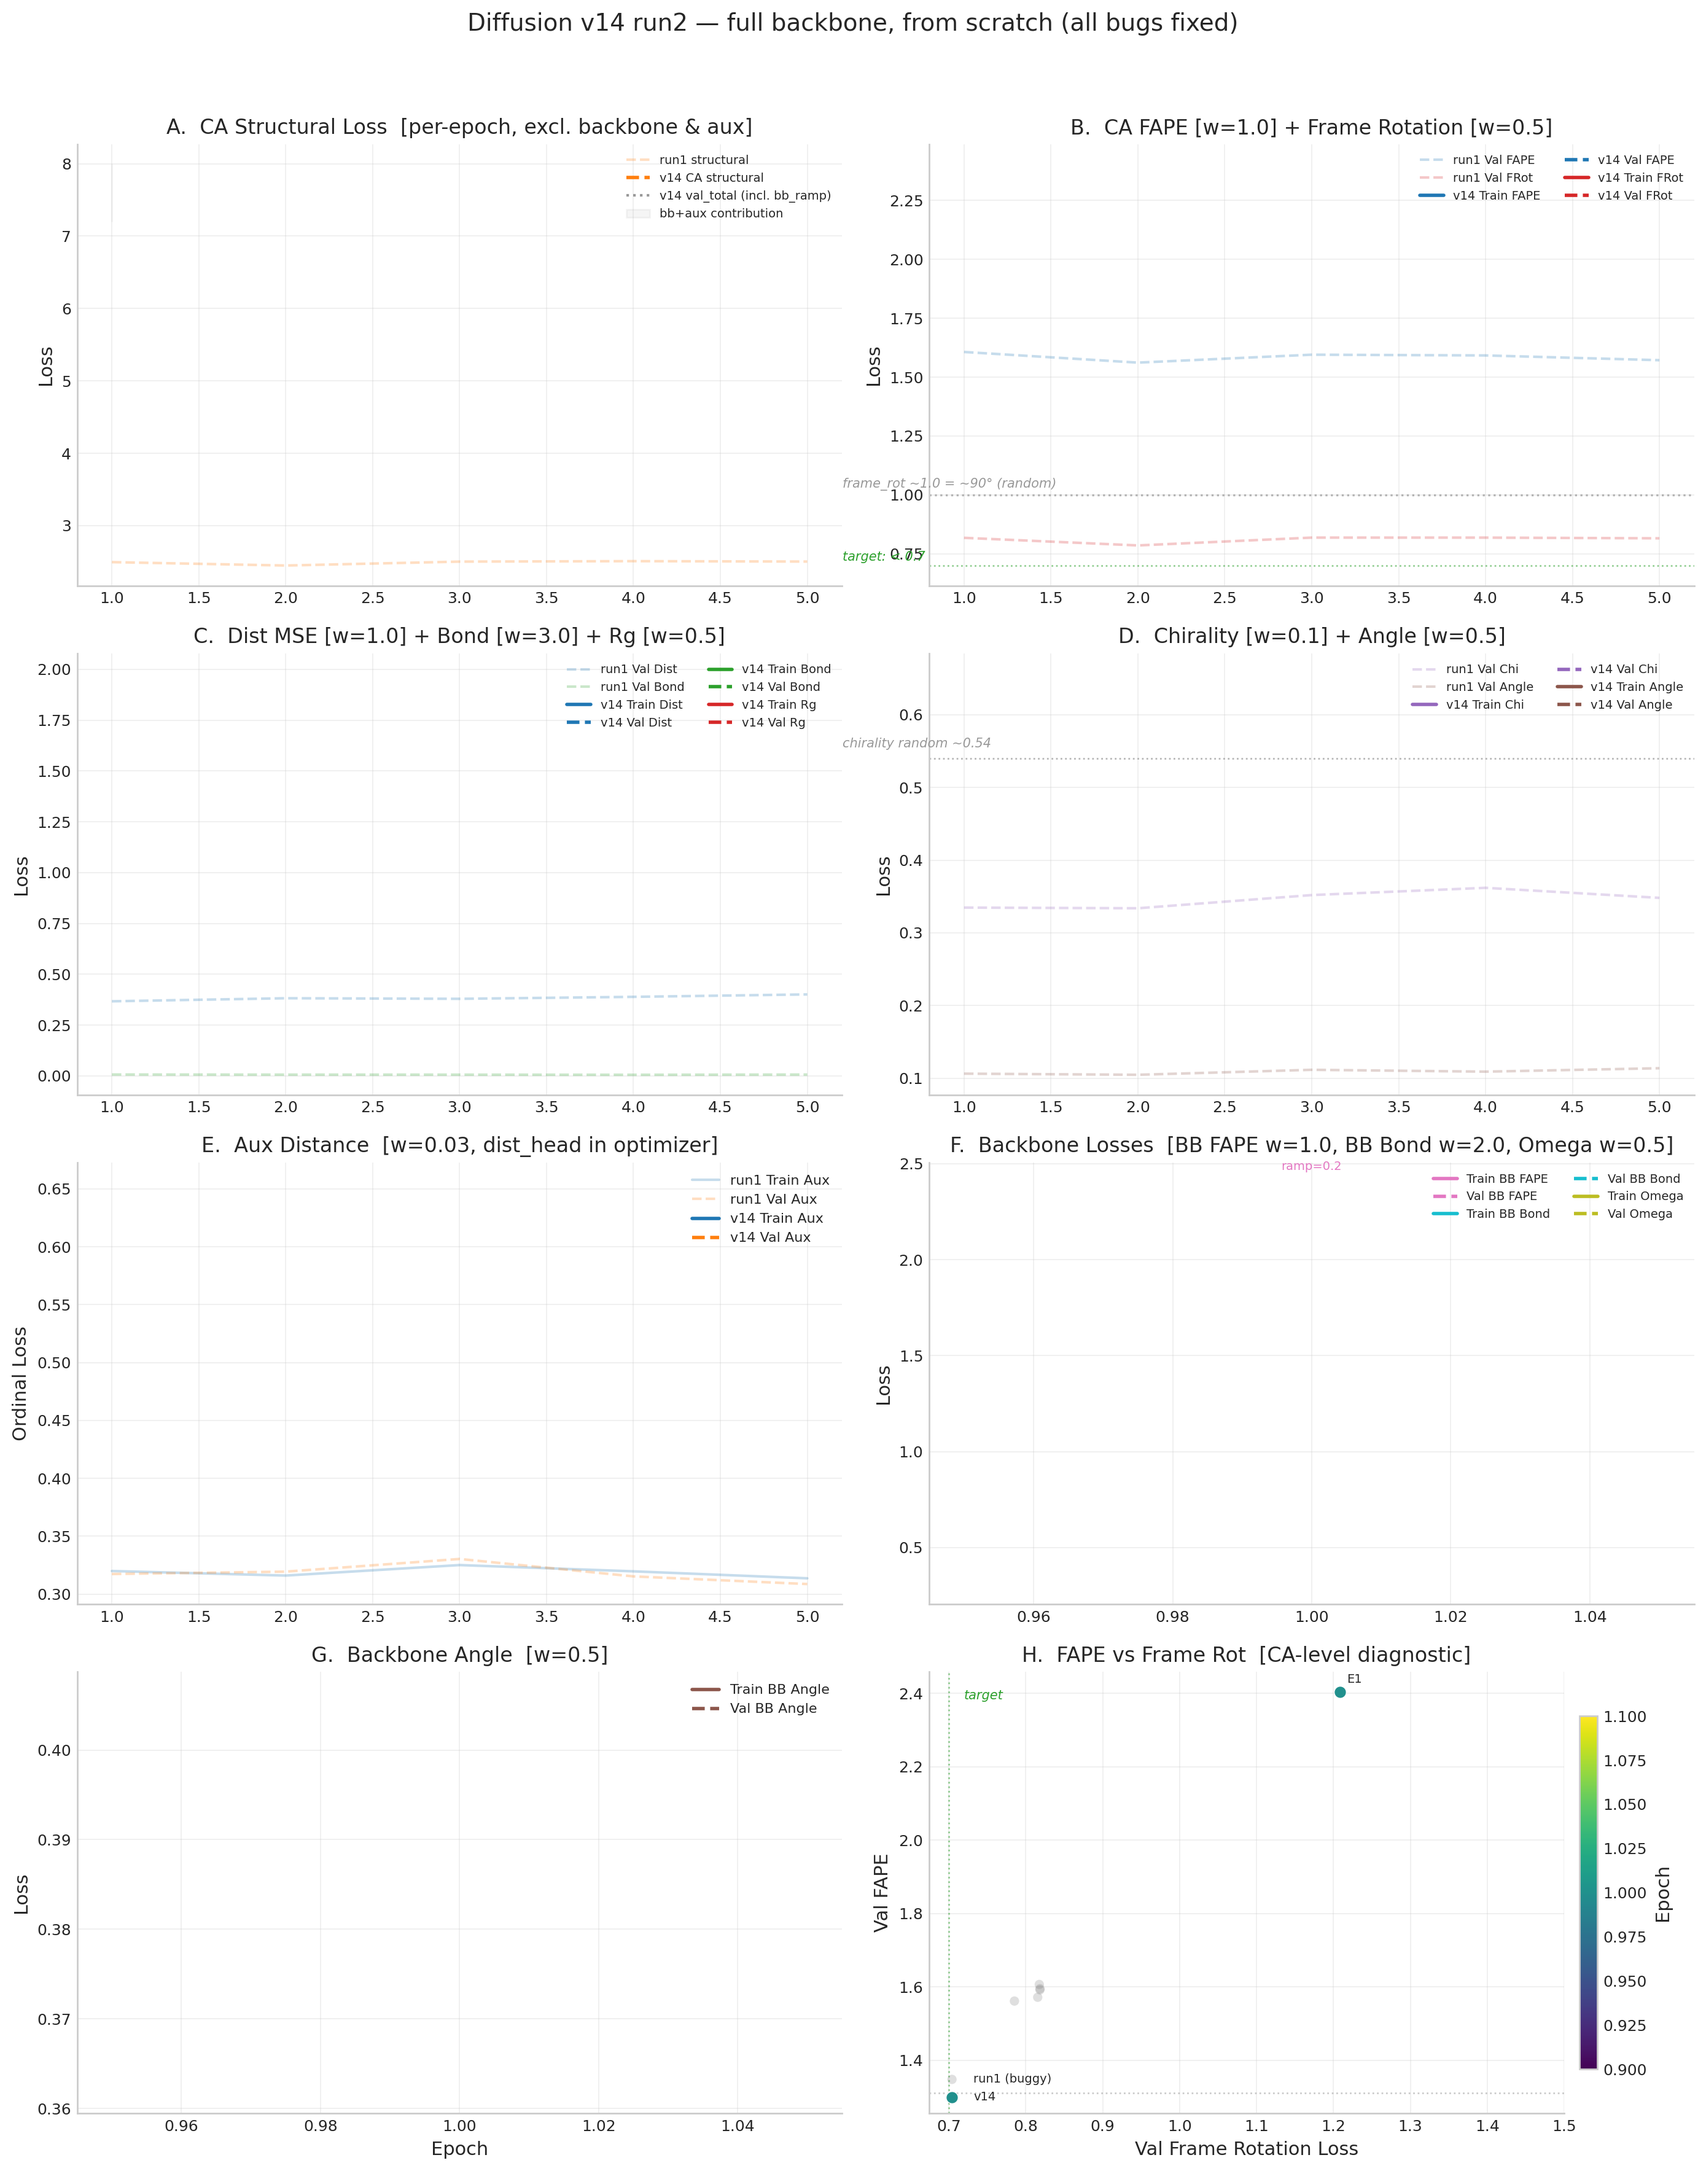
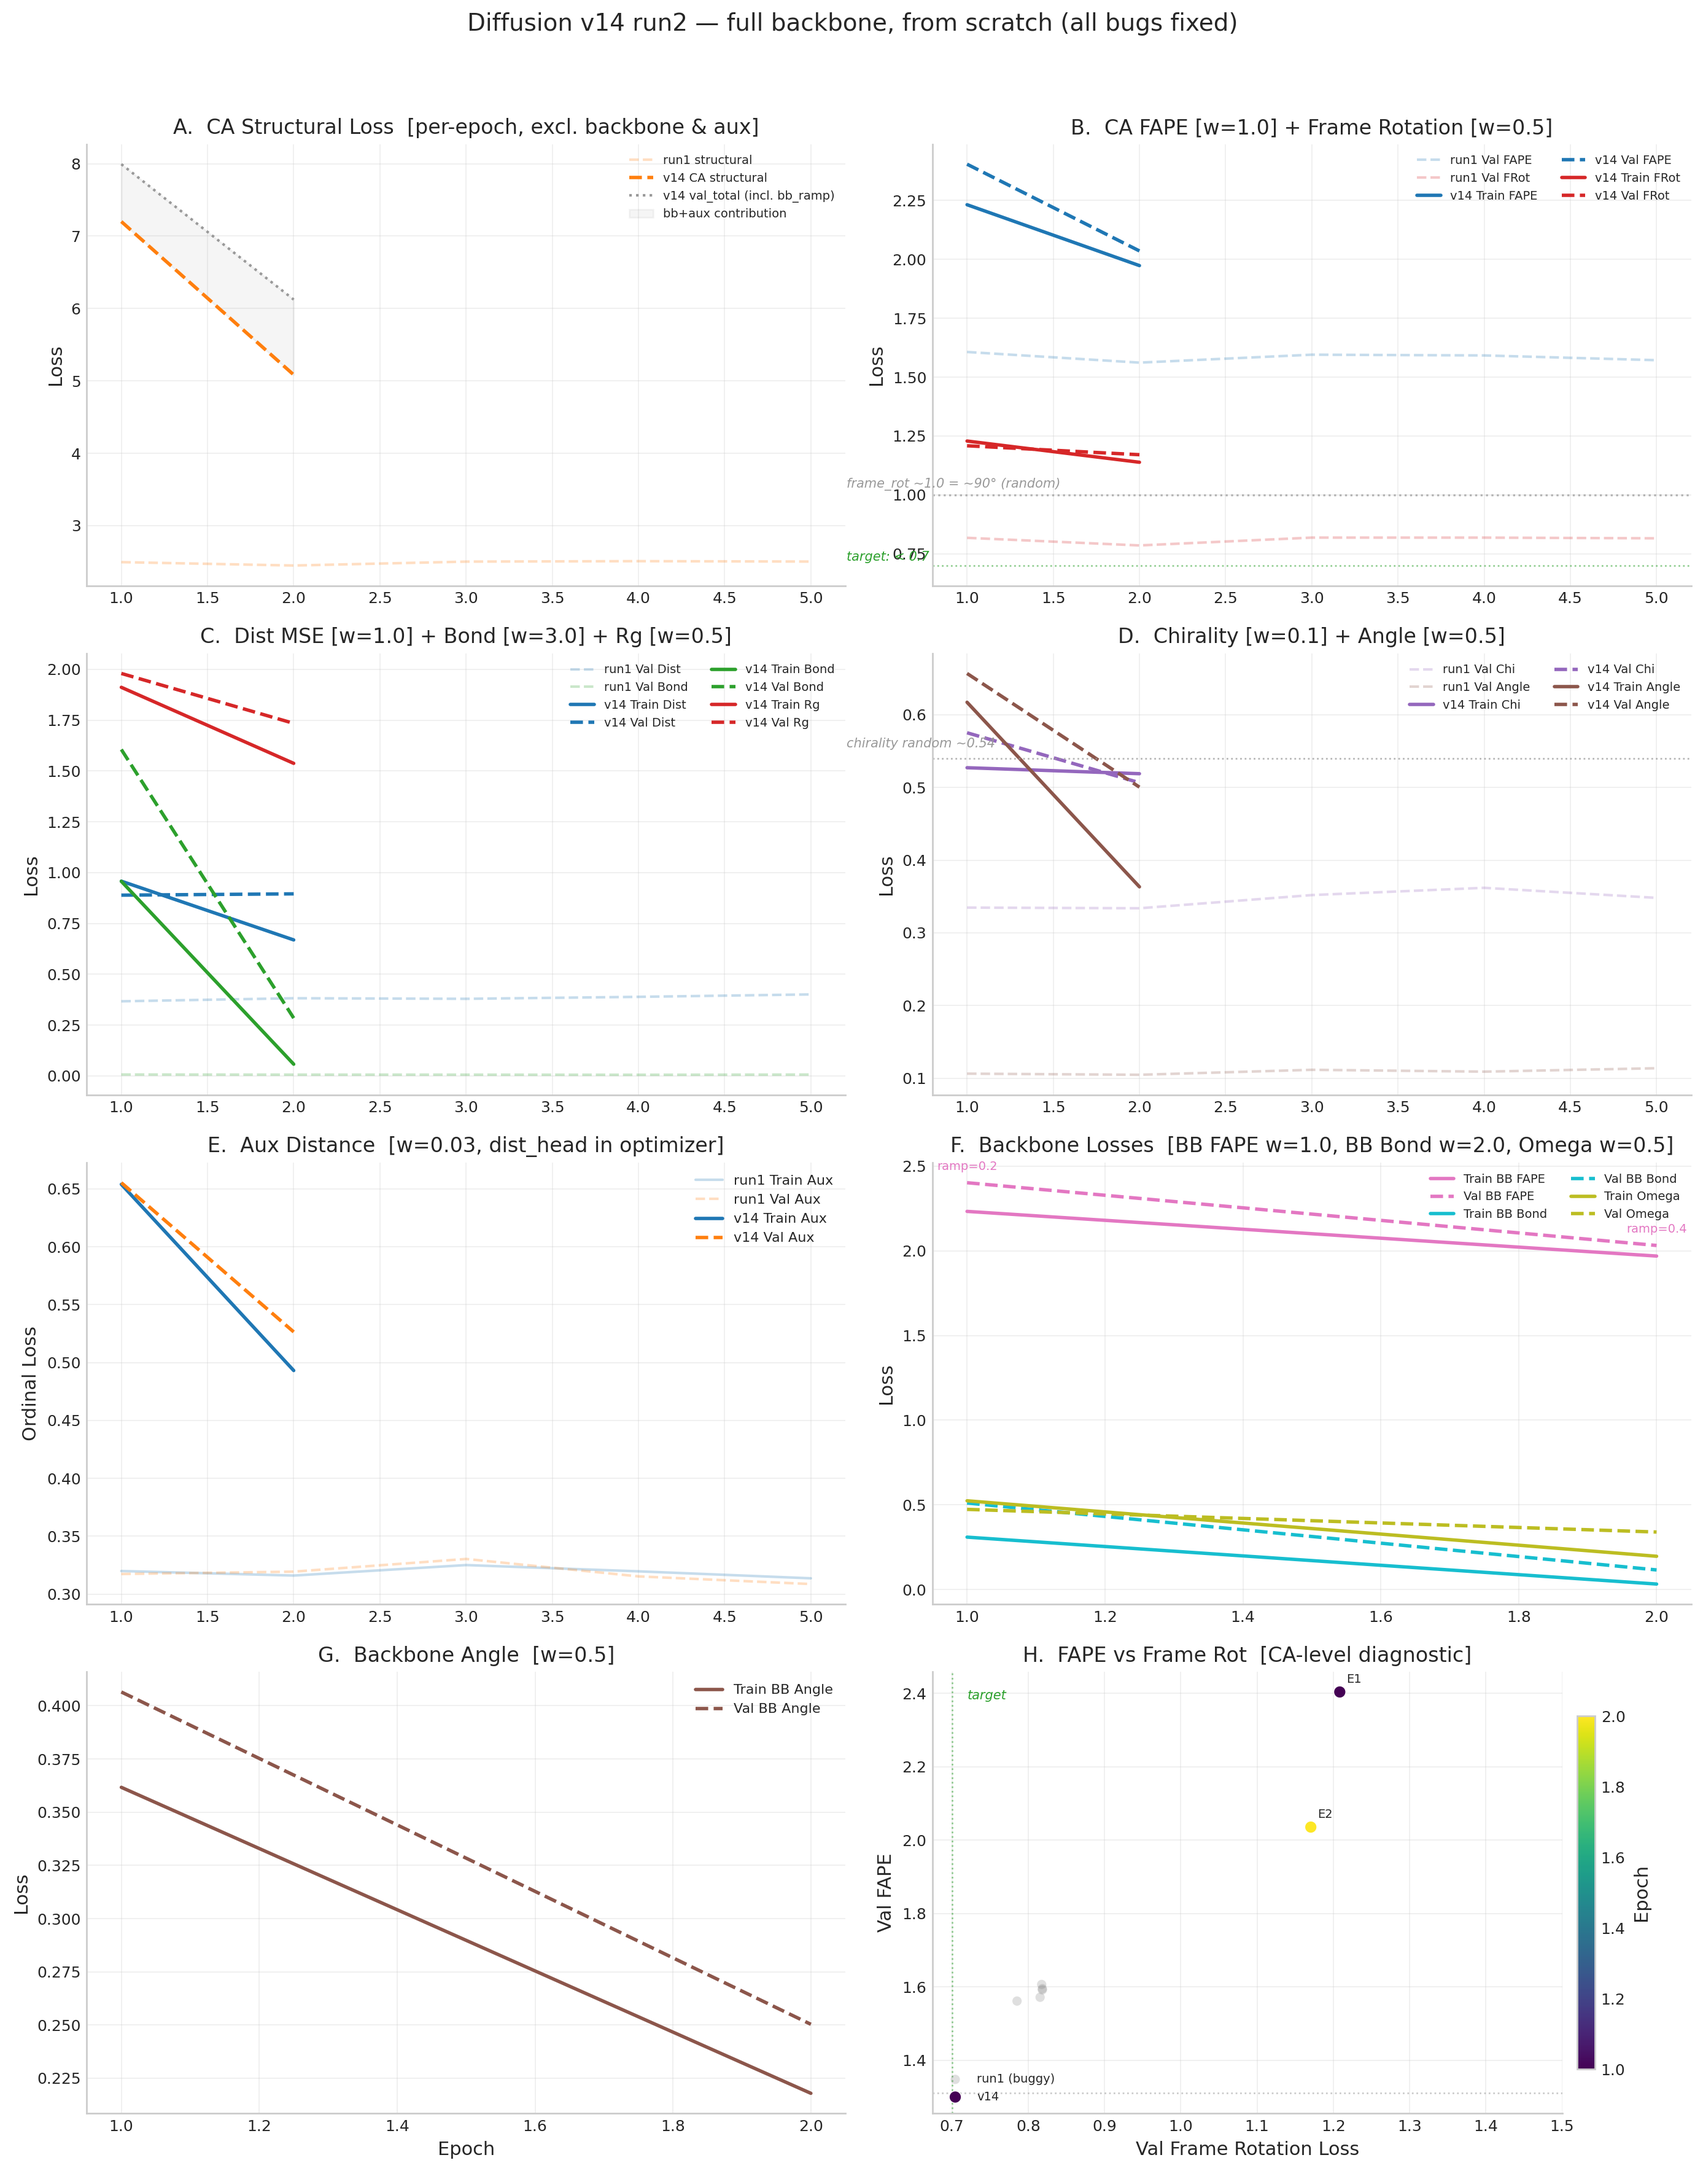
hourly update: v13b E7, v14 run2 E2

diff --git a/minifold.html b/minifold.html
@@ -448,8 +448,8 @@
               <td><span class="tag tag-best">NEW BEST</span></td>
             </tr>
             <tr>
-              <td><strong>6</strong></td>
-              <td style="color: #2ca02c;"><strong>2.727</strong></td>
+              <td>6</td>
+              <td>2.727</td>
               <td>1.730</td>
               <td>0.893</td>
               <td>0.384</td>
@@ -458,6 +458,20 @@
               <td>0.393</td>
               <td>0.169</td>
               <td>0.039</td>
+              <td>&mdash;</td>
+              <td><span class="tag tag-best">NEW BEST</span></td>
+            </tr>
+            <tr>
+              <td><strong>7</strong></td>
+              <td style="color: #2ca02c;"><strong>2.711</strong></td>
+              <td>1.711</td>
+              <td>0.881</td>
+              <td>0.394</td>
+              <td>0.010</td>
+              <td>0.303</td>
+              <td>0.392</td>
+              <td>0.165</td>
+              <td>0.038</td>
               <td>&mdash;</td>
               <td><span class="tag tag-best">NEW BEST</span></td>
             </tr>
@@ -630,14 +644,26 @@
           </thead>
           <tbody id="v14-tbody">
             <tr>
-              <td><strong>1</strong></td>
-              <td><strong>7.201</strong></td>
+              <td>1</td>
+              <td>7.201</td>
               <td>2.404</td>
               <td>1.208</td>
               <td>0.889</td>
               <td>2.401</td>
               <td>0.511</td>
               <td>0.474</td>
+              <td>&mdash;</td>
+              <td><span class="tag tag-best">NEW BEST</span></td>
+            </tr>
+            <tr>
+              <td><strong>2</strong></td>
+              <td style="color: #2ca02c;"><strong>5.084</strong></td>
+              <td>2.036</td>
+              <td>1.170</td>
+              <td>0.896</td>
+              <td>2.031</td>
+              <td>0.116</td>
+              <td>0.340</td>
               <td>&mdash;</td>
               <td><span class="tag tag-best">NEW BEST</span></td>
             </tr>
